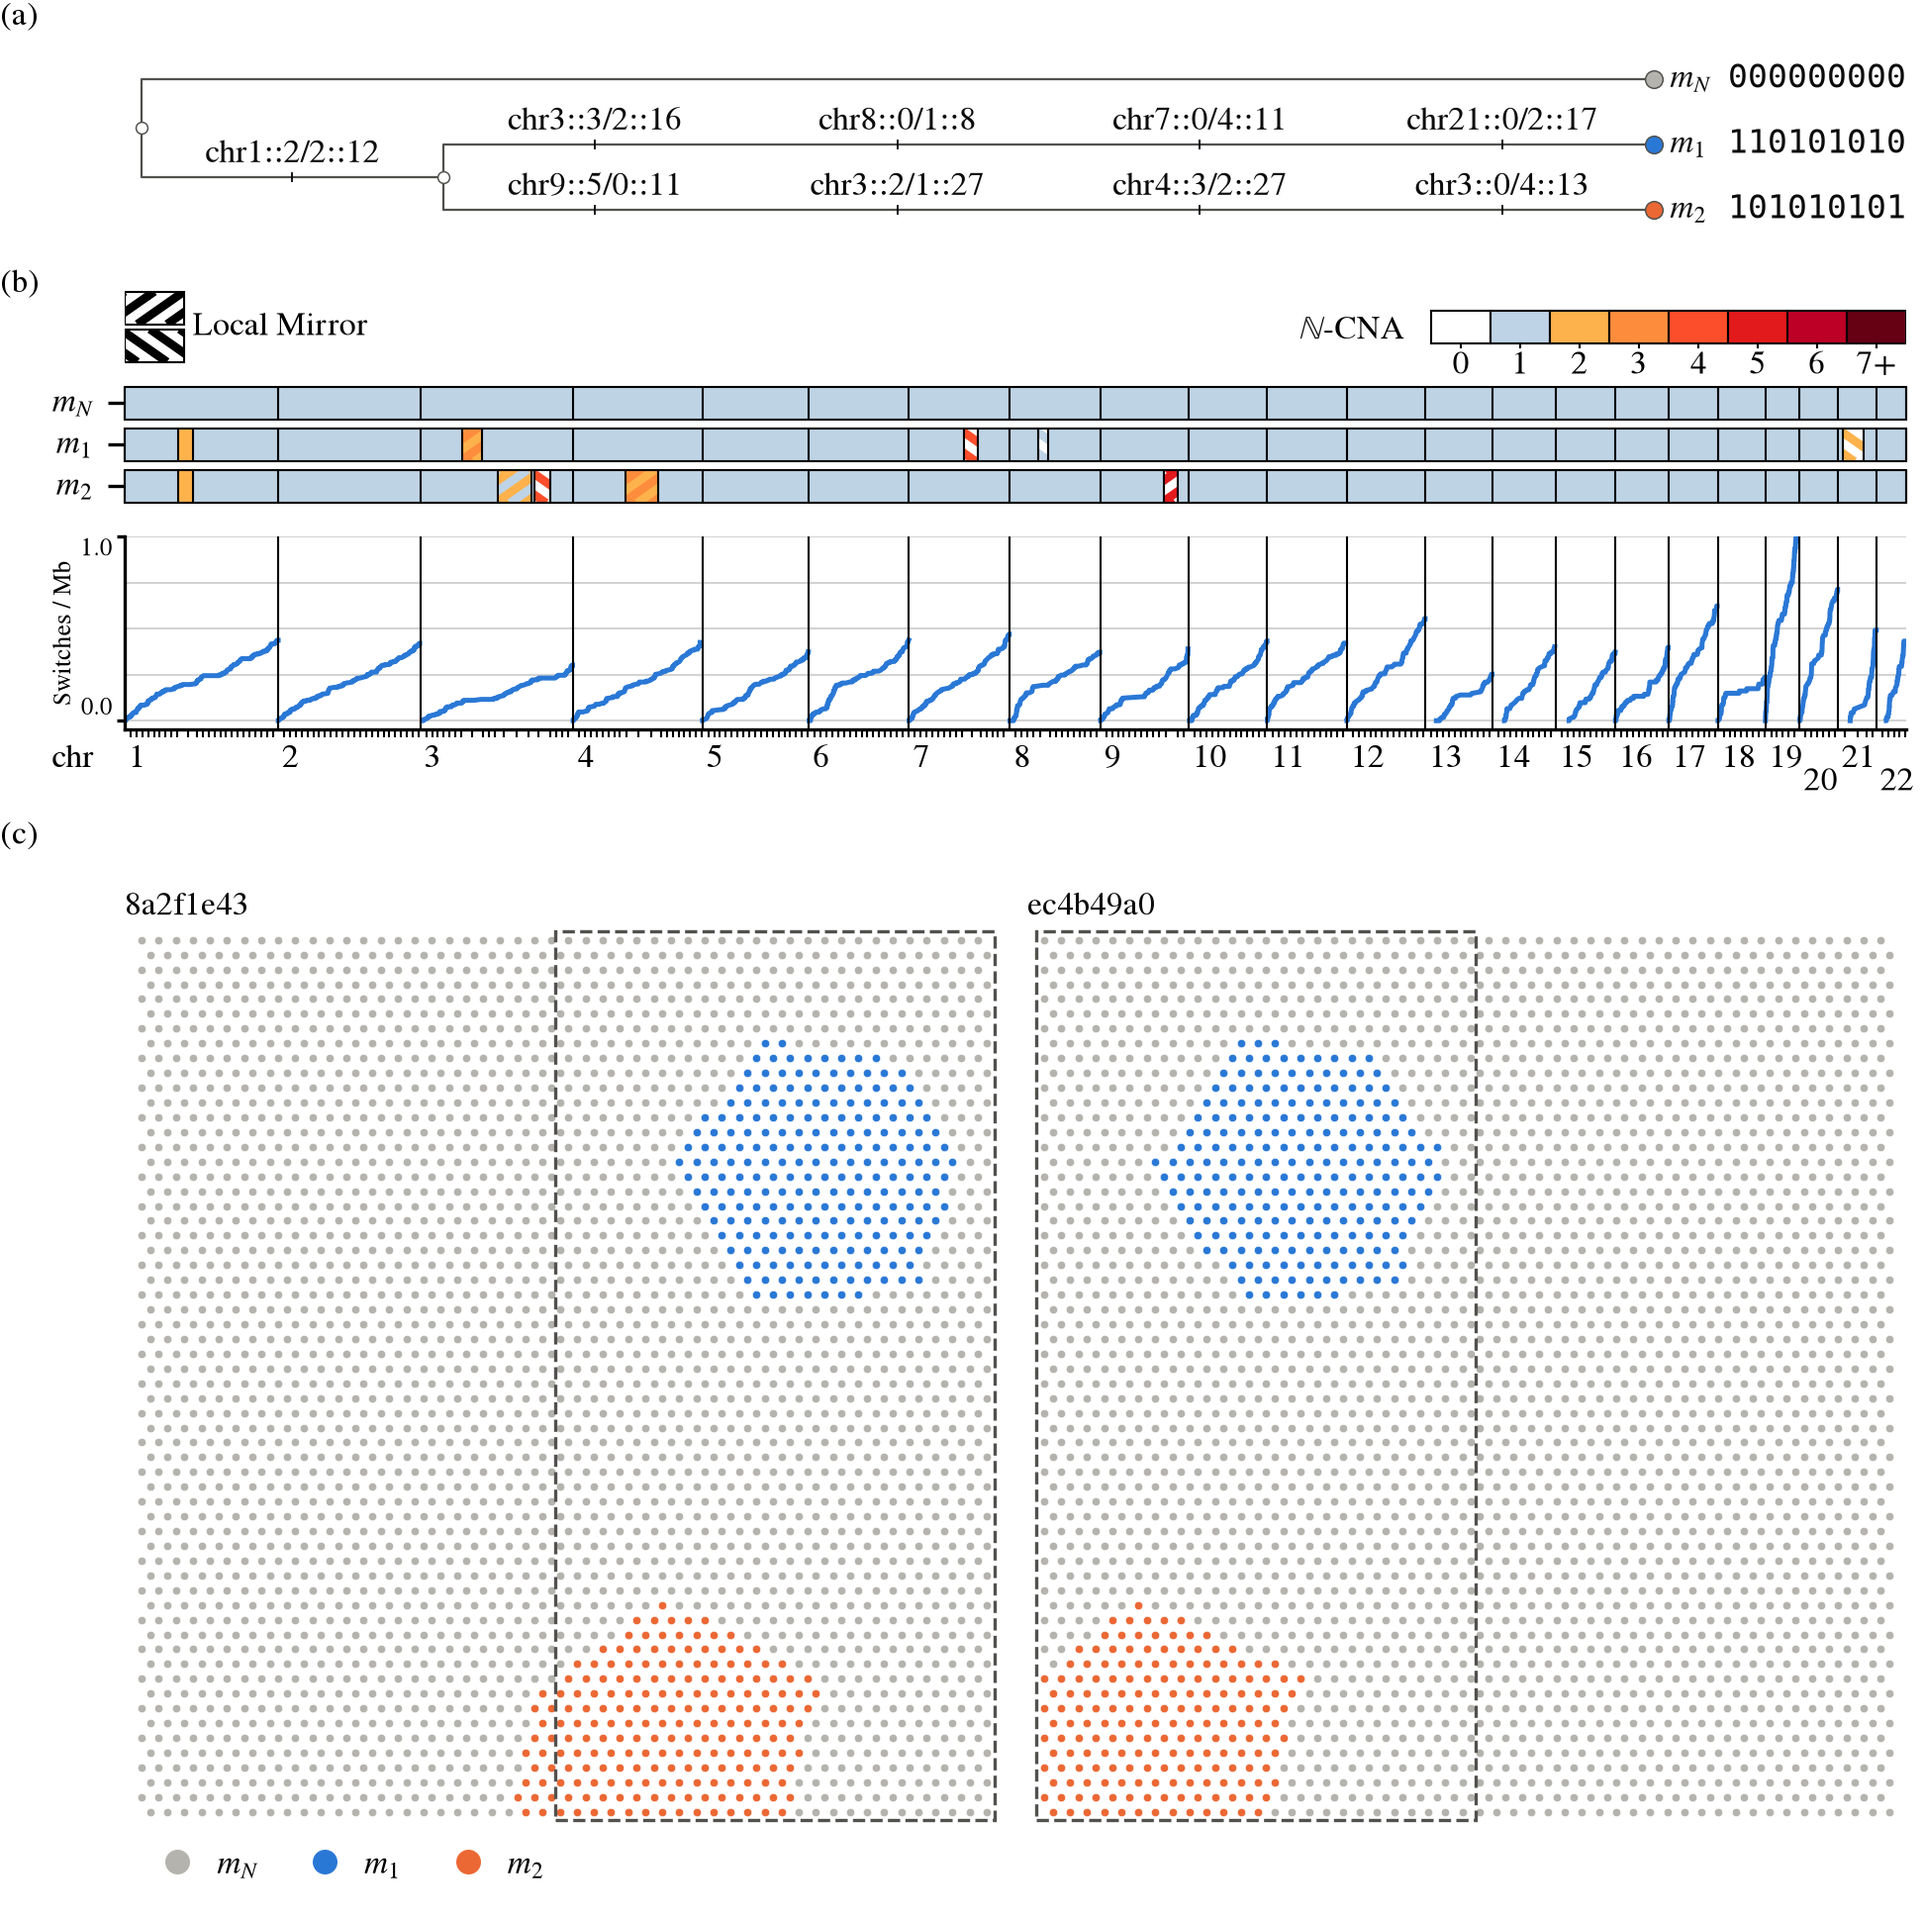
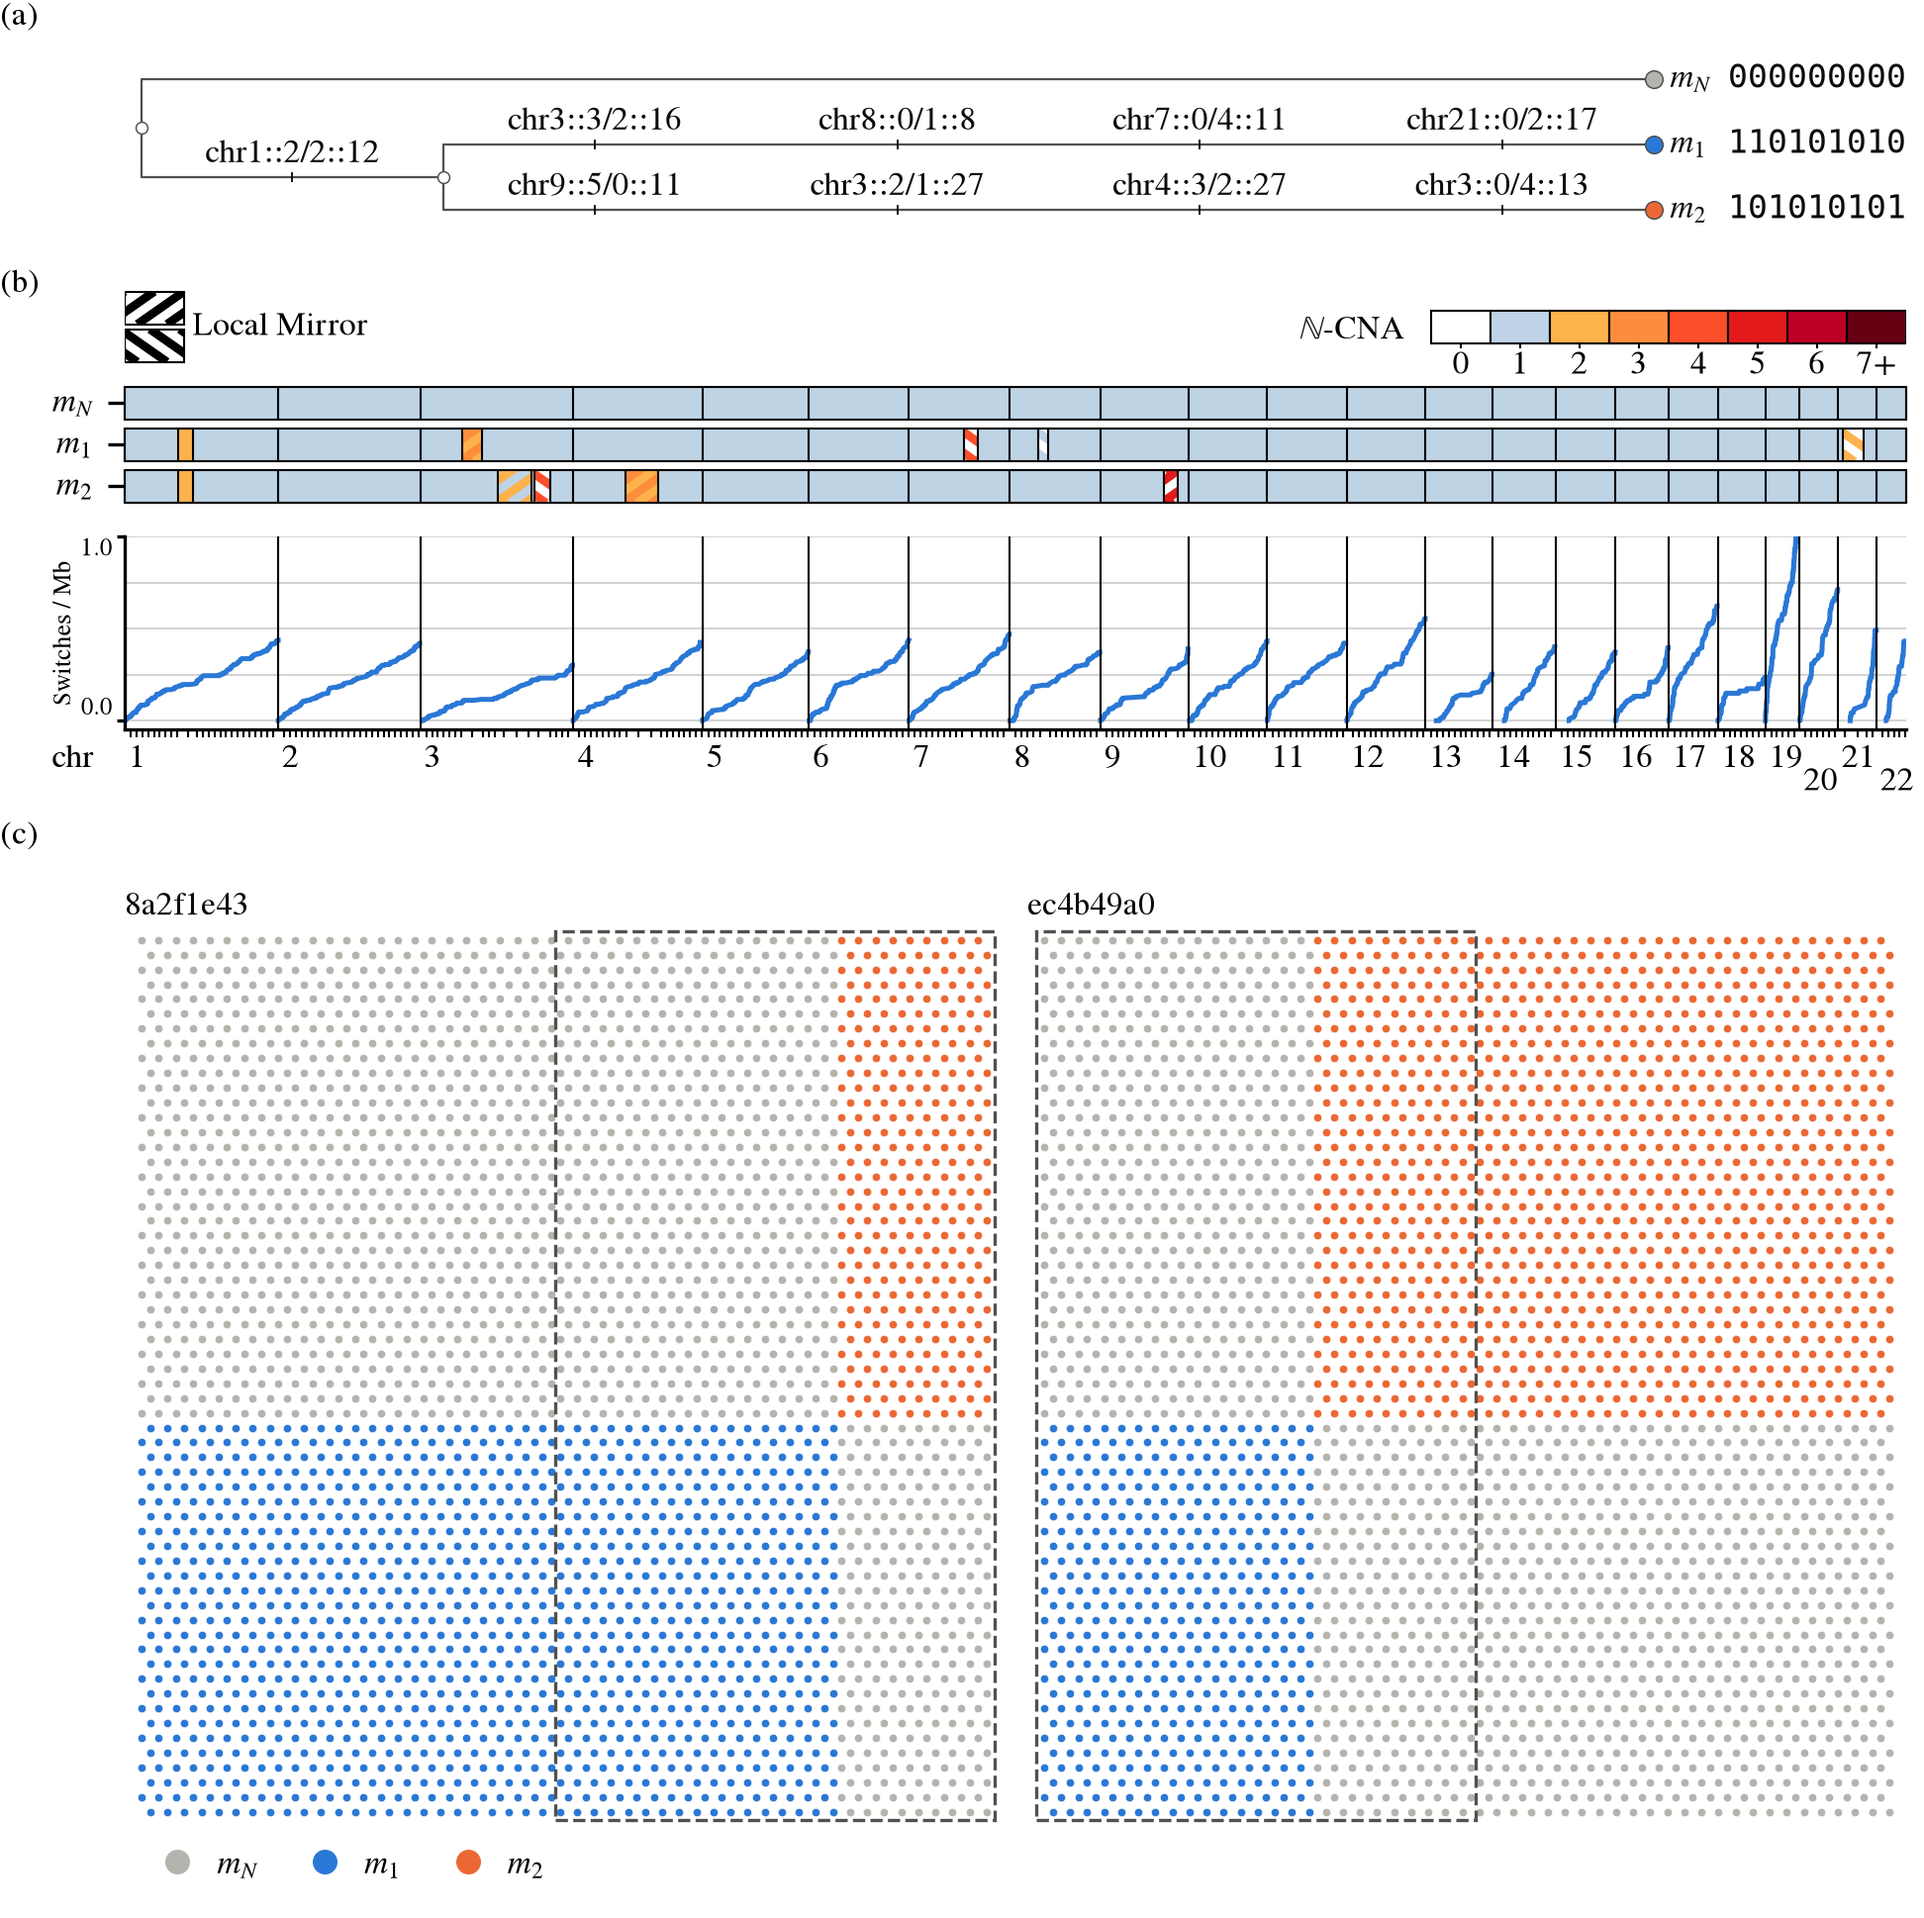
T- #807: [layout] shape = "rectangles", CalicoST's grid by the clone count; study15 lays out by it
The slices' shared frame is cut into a p x p grid, p = ceil(sqrt(n + 1)),
block b holding group b % (n + 1), group 0 normal, whose block takes
[layout] normal_share of each side squared, as port.sim.truth.clone_quadrants
and CalicoST's rectangle_initialize_initial_clone. calicost_grch38 states
shape = "polygons", so every other r0 is unchanged. study15 (r0 2008ae3a)
uses rectangles at normal_share 0.3 and drops [layout.size]; study10
(cde71315) and study15_2s (61654d9f) follow; the 2-slice pages are redrawn.

Claude-Session: https://claude.ai/code/session_01JXaY8ogGJw3Lo2bAgEaAaH

diff --git a/python/port/sim/draw.py b/python/port/sim/draw.py
@@ -130,7 +130,7 @@ REQUIRED: dict[str, tuple[str, ...]] = {
     ),
     "cna": ("mode", "n_clones", "states", "length"),
     "phasing": ("switch_errors", "nu", "unit"),
-    "layout": ("overlap", "radius", "vertices", "jitter", "max_placements", "unplaced"),
+    "layout": ("shape", "overlap", "radius", "vertices", "jitter", "max_placements", "unplaced"),
     "config": ("base",),
 }  # fmt: skip
 """Every table and key a manifest must state. Nothing the draw assumes has a
@@ -158,6 +158,14 @@ CLONE_COUNTS = {"poisson": ("mean", "minimum")}
 """`[cna] n_clones` as a table in place of an integer: the tumour clones of each truth, drawn
 (T- #807). `poisson`: `Poisson(mean)` redrawn until at least `minimum`, so zero-truncated at
 `minimum = 1`. Every slice then lists `clones = "all"`, the clones the draw gives it."""
+
+SHAPES = ("polygons", "rectangles")
+"""`[layout] shape` (T- #807): `polygons`, each clone a jittered polygon placed in turn; or
+`rectangles`, the slices' shared frame cut into a `p x p` grid, `p = ceil(sqrt(n + 1))` for
+normal and `n` tumour clones, block `b` holding group `b % (n + 1)` and group 0 normal, whose
+block takes `[layout] normal_share` of each side squared -- CalicoST's
+`rectangle_initialize_initial_clone` layout (`port.sim.truth.clone_quadrants`). The layout's
+generator assigns the tumour clones to groups; `[layout.size]` is not stated."""
 
 UNPLACED = ("refuse", "stop")
 """`[layout] unplaced`, what `layout` does with a drawn clone no placement clears in
@@ -493,6 +501,15 @@ def _check(manifest: DrawManifest) -> None:
             problems += [f"[layout.size] {k}" for k in absent]
             if "edge" in size and size["edge"] not in EDGES:
                 problems.append(f"[layout.size] edge {size['edge']!r}: one of {EDGES}")
+    if manifest.layout["shape"] not in SHAPES:
+        problems.append(f"[layout] shape {manifest.layout['shape']!r}: one of {SHAPES}")
+    elif manifest.layout["shape"] == "rectangles":
+        if "normal_share" not in manifest.layout:
+            problems.append('[layout] normal_share, which shape = "rectangles" reads')
+        if "size" in manifest.layout:
+            problems.append(
+                '[layout.size] with shape = "rectangles", which sizes by the grid'
+            )
     if manifest.layout["unplaced"] not in UNPLACED:
         problems.append(
             f"[layout] unplaced {manifest.layout['unplaced']!r}: one of {UNPLACED}"
@@ -959,6 +976,8 @@ def layout(
 
     listed = [c for c in manifest.tumour if any(c in p.clones for p in manifest.slices)]
     listed += [c for c in stated if c not in listed]
+    if manifest.layout["shape"] == "rectangles":
+        return _rectangles(manifest, everything, len(frames), listed, rng)
     overlap = bool(manifest.layout["overlap"])
     size = manifest.layout.get("size")
     # NB drawn before any placement, in clone order, so a clone's size does
@@ -1024,6 +1043,50 @@ def layout(
         shapes[clone] = vertices
 
     return list(np.split(labels, len(frames))), shapes
+
+
+def _rectangles(
+    manifest: DrawManifest,
+    everything: np.ndarray,
+    n_frames: int,
+    listed: list[str],
+    rng: np.random.Generator,
+) -> tuple[list[np.ndarray], dict[str, np.ndarray]]:
+    """`[layout] shape = "rectangles"`: the shared frame's `p x p` grid (`SHAPES`), each block's
+    corners as its clone's shape -- the first block a clone holds."""
+    groups = len(listed) + 1
+    p = int(np.ceil(np.sqrt(groups)))
+    lower, upper = everything.min(axis=0), everything.max(axis=0)
+    first = np.sqrt(float(manifest.layout["normal_share"])) if groups > 1 else 1.0 / p
+
+    def cuts(axis: int) -> np.ndarray:
+        rest = np.linspace(first, 1.0, p)[1:-1] if p > 2 else np.array([])
+        edges = np.concatenate(([first], rest))[: p - 1] if p > 1 else np.array([])
+        return np.asarray(lower[axis] + edges * (upper[axis] - lower[axis]))
+
+    x_cuts, y_cuts = cuts(0), cuts(1)
+    block = np.searchsorted(
+        y_cuts, everything[:, 1], side="right"
+    ) * p + np.searchsorted(x_cuts, everything[:, 0], side="right")
+    order = [listed[k] for k in rng.permutation(len(listed))]
+    group = block % groups
+    labels = np.full(everything.shape[0], -1, dtype=np.int64)
+    shapes: dict[str, np.ndarray] = {}
+    xs = np.concatenate(([lower[0]], x_cuts, [upper[0]]))
+    ys = np.concatenate(([lower[1]], y_cuts, [upper[1]]))
+    for k, clone in enumerate(order, start=1):
+        labels[group == k] = manifest.tumour.index(clone)
+        b = int(np.flatnonzero(np.arange(p * p) % groups == k)[0])
+        (i, j) = divmod(b, p)
+        shapes[clone] = np.array(
+            [
+                [xs[j], ys[i]],
+                [xs[j + 1], ys[i]],
+                [xs[j + 1], ys[i + 1]],
+                [xs[j], ys[i + 1]],
+            ]
+        )
+    return list(np.split(labels, n_frames)), shapes
 
 
 def barcodes(

diff --git a/tests/test_sim_draw.py b/tests/test_sim_draw.py
@@ -493,7 +493,9 @@ def _sized(law: dict[str, Any]) -> DrawManifest:
     document["slice"] = [
         {"offset": [0.0, 0.0], "clones": ["clone_0", "clone_1", "clone_2"]}
     ]
-    document["layout"] |= {"max_placements": 1000, "unplaced": "refuse", "size": law}
+    document["layout"] |= {
+        "shape": "polygons", "max_placements": 1000, "unplaced": "refuse", "size": law,
+    }  # fmt: skip
     return from_document(document, SIM_MANIFESTS)
 
 
@@ -711,9 +713,13 @@ def test_a_clone_count_law_draws_a_zero_truncated_poisson() -> None:
 def test_a_clone_that_does_not_fit_ends_the_layout() -> None:
     """`[layout] unplaced = "stop"`: the placed clones are a prefix of the drawn, every one
     with spots, and a later clone is never placed past an unplaced one (T- #807)."""
-    from port.sim.draw import read_manifest, resolved
+    from port.sim.draw import resolved
 
-    manifest = read_manifest(SIM_MANIFESTS / "study15.toml")
+    document = extended(SIM_MANIFESTS / "study15.toml")
+    document["layout"] |= {"shape": "polygons", "max_placements": 10, "unplaced": "stop",
+                           "size": {"law": "lognormal", "median": 1896, "sigma": 0.665,
+                                    "edge": "clip"}}  # fmt: skip
+    manifest = from_document(document, SIM_MANIFESTS)
     _, _, points = hex_array(60, 50)
     stopped = 0
     for seed in range(60):
@@ -727,3 +733,22 @@ def test_a_clone_that_does_not_fit_ends_the_layout() -> None:
         stopped += len(placed) < len(drawn.tumour)
 
     assert stopped > 0
+
+
+@pytest.mark.analytic
+def test_rectangles_partition_the_frame_by_the_clone_count() -> None:
+    """`[layout] shape = "rectangles"` (T- #807): every spot in one block of a `p x p` grid,
+    `p = ceil(sqrt(n + 1))`, each tumour clone holding a block, normal the top-left one and
+    at least `normal_share` of the slice; against `port.sim.truth.clone_quadrants`' counts."""
+    from port.sim.draw import read_manifest, resolved
+
+    manifest = read_manifest(SIM_MANIFESTS / "study15.toml")
+    _, _, points = hex_array(60, 50)
+    for seed in range(40):
+        drawn = resolved(manifest, np.random.default_rng(seed))
+        labels, shapes = layout(drawn, points, np.random.default_rng(seed))
+        n = len(drawn.tumour)
+
+        assert sorted(shapes) == sorted(drawn.tumour)
+        assert set(np.unique(labels[0])) == {-1, *range(n)}
+        assert np.mean(labels[0] == -1) >= float(manifest.layout["normal_share"]) - 0.02

diff --git a/README.md b/README.md
@@ -516,9 +516,8 @@ median, against 29-35% under the exponential (#619;
 population study read, and `study10.toml` the same at 10 Mb (`study15_2s.toml` on two
 slices, for figures): CNA lengths lognormal at a 15 Mb median; every (A, B)
 up to a total of 6, uniform; a zero-truncated Poisson(3) count of clones
-(`[cna] n_clones` as a law), each sized lognormal at a 632-spot median and
-clipped at the array's edge (`[layout.size] edge = "clip"`), the layout ending at
-the first clone 10 centres do not clear (`[layout] unplaced = "stop"`); CalicoST
+(`[cna] n_clones` as a law), laid out as CalicoST easy's and hard's: the slice
+cut into a grid of rectangles by that count (`[layout] shape = "rectangles"`); CalicoST
 hard's admixture (0.14, `cell`), BAF overdispersion, phase switches,
 irreversible LOH, and truth varied per realization (T- #807; `population*.toml`
 retired to `sim/sandbox/manifests/`);

diff --git a/changelog.d/807.added.md b/changelog.d/807.added.md
@@ -1,2 +1,3 @@
 Added `[layout.size] edge` to `port.sim.draw` manifests, required wherever `[layout.size]` is stated: `"grow"` keeps the polygon growing to its target at the array's edge, as before, and `"clip"` sizes it on the array continued past the edge (`draw.unbounded`), so a clone that runs off keeps only the spots that land on it.
 Added `[cna] n_clones` as a law (`{law = "poisson", mean, minimum}`, drawn per truth by `port.sim.draw.resolved`), `[[slice]] clones = "all"`, and the required `[layout] unplaced = "refuse" | "stop"`, under which a clone no placement clears ends the layout and the truth is drawn on the clones placed.
+Added the required `[layout] shape = "polygons" | "rectangles"` to `port.sim.draw` manifests: `rectangles` cuts the slices' shared frame into CalicoST's `p x p` grid by the clone count, normal's block at least `[layout] normal_share` of it.
